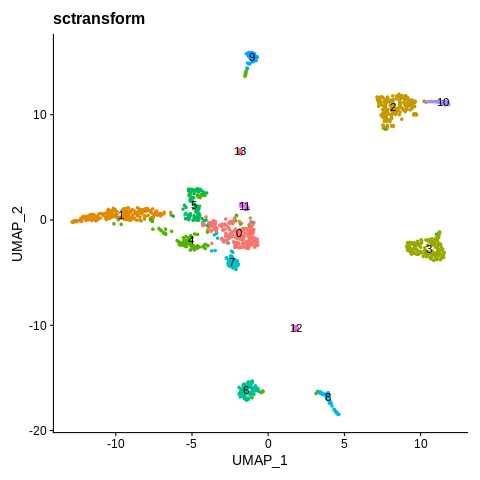
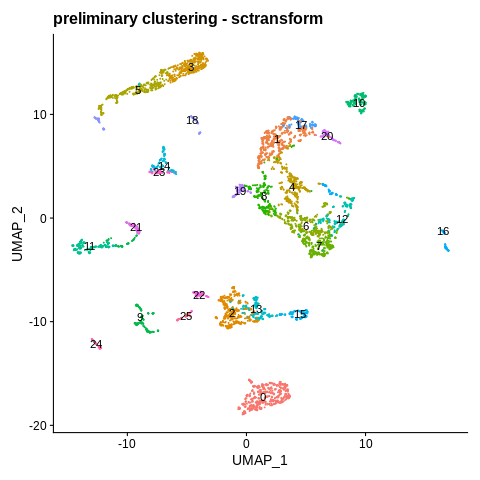
‘updates’

diff --git a/README.md b/README.md
@@ -9,7 +9,6 @@ This Github describes the pipeline used by the Cebola Lab to analyse single-cell
 4. [Generate a reference transcriptome](#2-Generate-a-reference-transcriptome)
 5. [Cellranger count](#5-Cellranger-count)
 
-
 ## 1. Pipeline overview
 
 1. **Generate count matrix**: `CellRanger count` is used to generate count matrices with some initial filtering to remove empty droplets. 
@@ -44,11 +43,7 @@ The pipeline for secondary analysis, including references, is discussed below.
 5. **Normalization (within-sample)**. 
 Within-sample normalization aims to normalise counts across cells which can differ due to sequencing depth, RNA content, and efficiency of lysis and reverse transcription [(Saket Choudhary & Rahul Satija, 2022; ](https://genomebiology.biomedcentral.com/articles/10.1186/s13059-021-02584-9)[Grün, Kester and van Oudenaarden. 2014)](http://scholar.google.com/scholar_lookup?&title=Validation%20of%20noise%20models%20for%20single-cell%20transcriptomics&journal=Nat%20Methods&volume=11&issue=6&pages=637-40&publication_year=2014&author=Grün%2CD&author=Kester%2CL&author=van%20Oudenaarden%2CA). Some methods normalize based on the total expression detected per-cell, however this approach is more appropriate for bulk RNA-seq as it assumes that each cell started with the same number of RNA molecules (e.g **Seurat** `NormalizeData` which normalizes by the total expression, multiplied by a scale factor and log-transformed). More recent methods apply downsampling or statistical models. Tools include Linnorm [(Yip et al., 2017)](https://www.ncbi.nlm.nih.gov/pmc/articles/PMC7019105/#B42), SCnorm [(Bacher et al., 2017)](https://www.ncbi.nlm.nih.gov/pmc/articles/PMC7019105/#B3), scran [(Lun et al., 2016)](https://www.ncbi.nlm.nih.gov/pmc/articles/PMC7019105/#B25), and more recently, Normalisr [(Wang, 2021)](https://www.nature.com/articles/s41467-021-26682-1), sctransform [(Hafemeister and Satija, 2019)](https://doi.org/10.1186%2Fs13059-019-1874-1), bayNorm [(Tang et al. 2020)](https://www.nature.com/articles/s41467-021-26682-1#ref-CR15), and Sanity [(Breda et al. 2019, *preprint*)](https://www.biorxiv.org/content/10.1101/2019.12.28.889956v1). Other normalization may be considered depending on the specific study design. For example, normalising for biological covariates (such as cell cycle stage) may be useful for trajectory inference. See discussion in [(Leucken and Theis, 2019)](https://www.embopress.org/doi/full/10.15252/msb.20188746).
 
-**Variance stabilization**. The aim here is to correct for the relationship between gene expression and variation in expression (a well-known effect which is corrected for in bulk RNA-seq pipelines, for example by DESeq2).
-
-5. **Normalization (between-sample)**. 
-
-6. Imputation?
+Others?? **Variance stabilization**. The aim here is to correct for the relationship between gene expression and variation in expression (a well-known effect which is corrected for in bulk RNA-seq pipelines, for example by DESeq2. Between-sample normalization, imputation
 
 #### Downstream analysis
 
@@ -81,7 +76,7 @@ Seurat anchors?
 
 #### UMAP plots
 
-[(Brüning et al. 2022)](https://academic.oup.com/gigascience/article/doi/10.1093/gigascience/giac001/6515741) UMAP run with the first 20 PCs
+[(Brüning et al. 2022)](https://academic.oup.com/gigascience/article/doi/10.1093/gigascience/giac001/6515741) UMAP run with the first 20 PCs.
 
 #### Differential expression
 
@@ -182,72 +177,86 @@ library(limma)
 library(DoubletFinder)
 ```
 
-Read in the data filtered by CellRanger, here shown for the example sample SRR10009414 from [Ramachandran et al. (2019)](https://www.nature.com/articles/s41586-019-1631-3). All the cells will initially be included, in order to carry out normalization and preliminary clustering required for SoupX.
+Read in the data filtered by CellRanger, here shown for the example donor SAMN12614700 from [Ramachandran et al. (2019)](https://www.nature.com/articles/s41586-019-1631-3), which includes four technical replicates. All barcodes which passed the cellranger filtering will be included in the initial pre-processing, in order to generate preliminary clusters for input to SoupX. 
 
 ```R
 #Read in data for Seurat
-SAMN12614700.data=Read10X("SAMN12614700/outs/filtered_feature_bc_matrix/")
-
+#Read in technical replicates
 #Initialize the Seurat object with the raw (non-normalized data).
-#No filtering at this stage
-SAMN12614700 <- CreateSeuratObject(counts = SAMN12614700.data, project = "SAMN12614700", min.cells = 1, min.features = 1)
+SRR10009414.data=Read10X("SAMN12614700_male_healthy/SRR10009414_control/outs/filtered_feature_bc_matrix/")
+SRR10009414 <- CreateSeuratObject(counts = SRR10009414.data, project = "SAMN12614700", 
+                                          min.cells = 1, min.features = 1)
+SRR10009415.data=Read10X("SAMN12614700_male_healthy/SRR10009415_control/outs/filtered_feature_bc_matrix/")
+SRR10009415 <- CreateSeuratObject(counts = SRR10009415.data, project = "SAMN12614700", 
+                                          min.cells = 1, min.features = 1)
+SRR10009416.data=Read10X("SAMN12614700_male_healthy/SRR10009416_control/outs/filtered_feature_bc_matrix/")
+SRR10009416 <- CreateSeuratObject(counts = SRR10009416.data, project = "SAMN12614700", 
+                                          min.cells = 1, min.features = 1)
+SRR10009417.data=Read10X("SAMN12614700_male_healthy/SRR10009417_control/outs/filtered_feature_bc_matrix/")
+SRR10009417 <- CreateSeuratObject(counts = SRR10009417.data, project = "SAMN12614700", 
+                                          min.cells = 1, min.features = 1)
 
 #To combine technical replicates:
-#SAMN12614700.data2=Read10X("SAMN12614700_2/outs/filtered_feature_bc_matrix/")
-#SAMN12614700.2 <- CreateSeuratObject(counts = SAMN12614700.data2, project = "SAMN12614700", min.cells = 1, min.features = 1)
-
-#SAMN12614700 <- merge(SAMN12614700, y = SAMN12614700.2, add.cell.ids = c("rep1", "rep1", project = "SAMN12614700")
-#SAMN12614700
+SAMN12614700 <- merge(SRR10009414, y = c(SRR10009415,SRR10009416,SRR10009417),
+                      add.cell.ids = c("SRR10009414", "SRR10009415","SRR10009416","SRR10009417"), 
+                      project = "SAMN12614700")
+SAMN12614700
 ```
 
-The output shows that there is `#24175 features across 1392 samples within 1 assay`, meaning 24,175 expressed genes and 1,392 cells. 
+The output shows that there is `26276 features across 5560 samples within 1 assay `, meaning 26,276 expressed genes and 5,560 cells. 
 
-Next, an initial round of pre-processing will include normalization, clustering and marker gene identification. The normalization will be carried out using [`SCTransform`](https://satijalab.org/seurat/articles/sctransform_vignette.html), which normalizes using a negative binominal in place of a scale factor. SCTransform has been reported to recover improved biological meaning compared to log-normalization based on a scale factor. 
+The following round of pre-processing will include normalization, clustering and marker gene identification. The normalization will be carried out using [`SCTransform`](https://satijalab.org/seurat/articles/sctransform_vignette.html), which normalizes using a negative binominal in place of a scale factor. SCTransform has been reported to recover improved biological meaning compared to log-normalization based on a scale factor. 
 
 ```R
 #SCTransform can be used in place of the NormalizeData, FindVariableFeatures, ScaleData workflow.
-SRR10009414_control.SCT <- SCTransform(SRR10009414_control, conserve.memory=TRUE,return.only.var.genes=TRUE)
+SAMN12614700 <- SCTransform(SAMN12614700, conserve.memory=TRUE,return.only.var.genes=TRUE)
+
 #Carry out dimensionality reduction and clustering:
-SRR10009414_control.SCT <- RunPCA(object = SRR10009414_control.SCT, verbose = FALSE)
-SRR10009414_control.SCT <- RunUMAP(object = SRR10009414_control.SCT, dims = 1:20, verbose = FALSE)
-SRR10009414_control.SCT <- FindNeighbors(object = SRR10009414_control.SCT, dims = 1:20, verbose = FALSE)
-SRR10009414_control.SCT <- FindClusters(object = SRR10009414_control.SCT, verbose = FALSE)
+SAMN12614700 <- RunPCA(object = SAMN12614700, verbose = FALSE)
+SAMN12614700 <- RunUMAP(object = SAMN12614700, dims = 1:20, verbose = FALSE)
+SAMN12614700 <- FindNeighbors(object = SAMN12614700, dims = 1:20, verbose = FALSE)
+SAMN12614700 <- FindClusters(object = SAMN12614700, verbose = FALSE)
 ```
 
 Identify cluster marker genes:
 ```R
-SRR10009414.markers <- FindAllMarkers(SRR10009414_control.SCT, only.pos = TRUE, min.pct = 0.25, logfc.threshold = 0.25)
-markers=SRR10009414.markers %>%
+#Identify marker genes
+SAMN12614700.markers <- FindAllMarkers(SAMN12614700, only.pos = TRUE, min.pct = 0.25, logfc.threshold = 0.25)
+#Subset the top 5 marker genes per cluster
+markers=SAMN12614700.markers %>%
     group_by(cluster) %>%
     slice_max(n = 5, order_by = avg_log2FC)
 ```
+
 
 These initial clusters can be visualised in a UMAP plot. Note that these clusters form the temporary input to the next stage of analysis (`SoupX`) and are *not* the final clusters.
 
 ```R
 #UMAP plot
-DimPlot(object = SRR10009414_control.SCT, label = TRUE, reduction = "umap") + NoLegend() + ggtitle("sctransform")
+DimPlot(object = SAMN12614700, label = TRUE, reduction = "umap") + NoLegend() + ggtitle("preliminary clustering - sctransform")
 ```
 
 ![UMAP plot 1](https://github.com/CebolaLab/scRNA/blob/main/Figures/UMAP1.png)
 
-We will add the UMAP coordinates to the metaData so they can be read by SoupX:
+Add the UMAP coordinates to the metaData for compatability with SoupX:
+
 ```R
 #Add the UMAP coordinates to the metaData for later compatability with SoupX
-umapCoord <- as.data.frame(Embeddings(object = SRR10009414_control.SCT[["umap"]]))
+umapCoord <- as.data.frame(Embeddings(object = SAMN12614700[["umap"]]))
 
 #You can then add the PC columns to the meta.data as you please (cbind, sapply, paste(..,collapse=),...)
-metaData <- SRR10009414_control.SCT@meta.data
+#For example, if you only need to add the PCs components, without modifying them or doing other processing, you can do a simple merge
+metaData <- SAMN12614700@meta.data
 
 metaData$UMI_id <- rownames(metaData)
 umapCoord$UMI_id <- rownames(umapCoord)
 
 metaData <- merge.data.frame(metaData,umapCoord,by = "UMI_id")
 metaData$UMI_id <- NULL
-rownames(metaData) = rownames(SRR10009414_control.SCT@meta.data)
+rownames(metaData) = rownames(SAMN12614700@meta.data)
 
-#Add the new dataframe to the object as metaData
-SRR10009414_control.SCT@meta.data <- metaData
+SAMN12614700@meta.data <- metaData
+head(SAMN12614700@meta.data)
 ```
 
 ### SoupX
